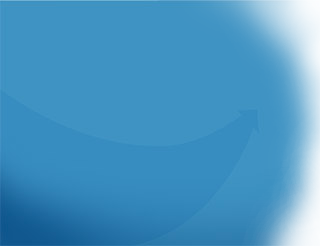
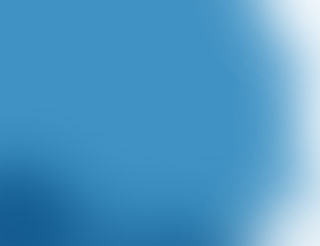
MNWR-73

Changed region(s): [[0.6875, 0.1707, 1.0, 1.0], [0.0, 0.0, 0.8438, 0.0285], [0.9688, 0.1707, 1.0, 0.2846]]

diff --git a/app/css/sections/_home-mobile.scss b/app/css/sections/_home-mobile.scss
@@ -332,7 +332,7 @@
       width: 100%;
       height: 246px;
       background: #4795be url("../img/mobile/homepage/bg-skull-1.png") no-repeat left top;
-      margin-bottom:10px; 
+      margin-bottom:10px;    
       .inner-help{
         background: url("../img/mobile/homepage/skull-help.png") no-repeat right top;
         padding-left:20px;
@@ -341,6 +341,20 @@
         background-size:186px auto;
         display: block;
         height: 246px;
+          position: relative;
+          &:after{
+            content: "";
+            background: url("../img/mobile/homepage/arrow-help-section.png") no-repeat;
+            display: inline-block;
+            width: 100%;  
+            height: 246px;
+            position: absolute;
+            top:0;
+            left: 0;
+            background-position: -63px 112px;
+            background-size: 100%;
+            z-index: 1;
+          }
         .head-help{
           width: 80%;
           p{
@@ -352,6 +366,8 @@
         }
       }
       .inner-ctas{
+          position: relative;
+          z-index: 2;
         .cta{
           height: 44px;
           margin-bottom: 8px;
